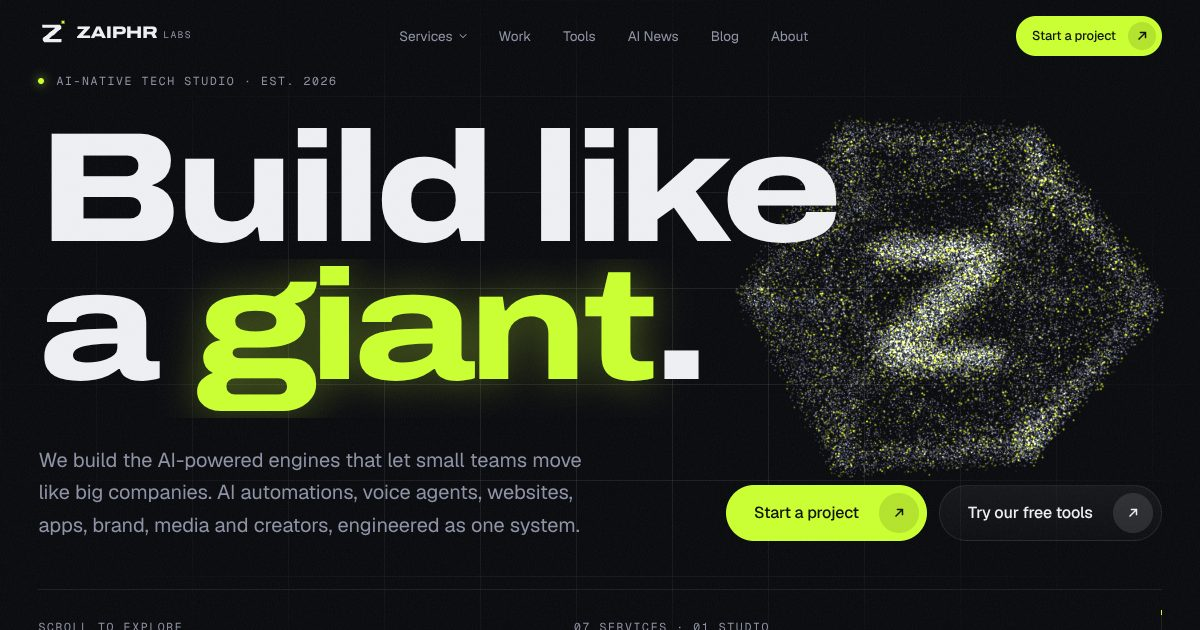
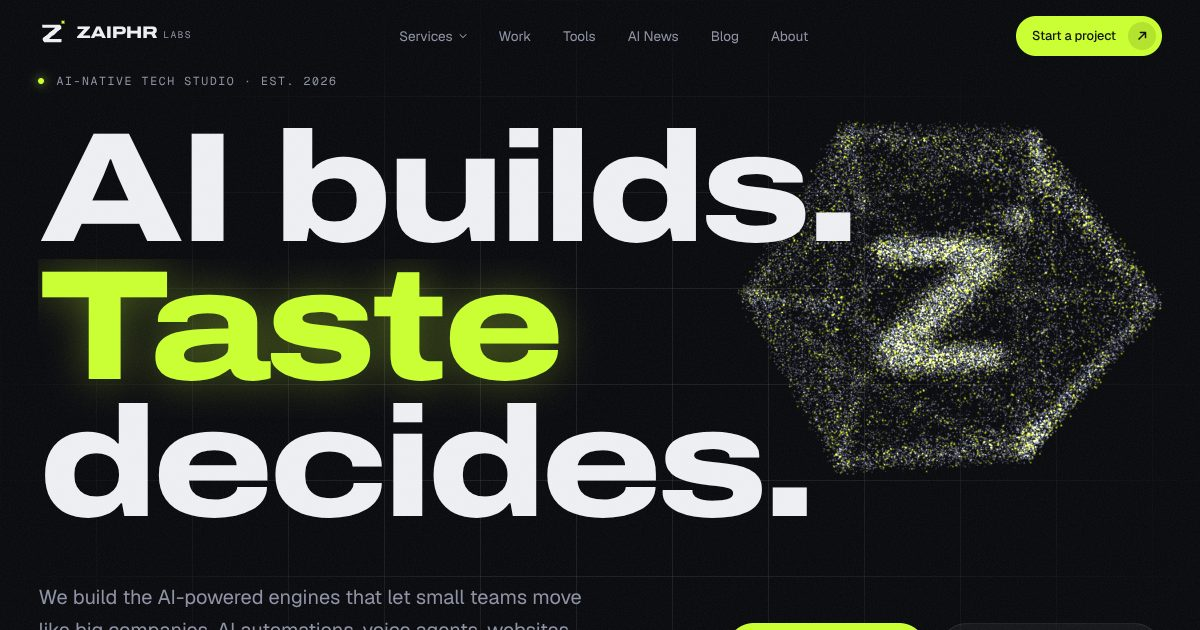
Home: new hero headline, "AI builds. Taste decides."
Ties the banner to the About page's Taste section. Link-preview images re-rendered.

Claude-Session: https://claude.ai/code/session_01Q21mXLWrfmy1micvPzq9W6

Changed region(s): [[0.0308, 0.181, 0.9867, 0.8746], [0.0308, 0.9349, 0.7708, 1.0], [0.8017, 0.7841, 0.9558, 0.8444]]

diff --git a/components/sections/home/Hero.tsx b/components/sections/home/Hero.tsx
@@ -15,10 +15,10 @@ export function Hero() {
 
         <h1 className="font-display-wide text-[length:var(--text-mega)]">
           <RevealText as="span" trigger="ready" className="block">
-            Build like
+            AI builds.
           </RevealText>
           <RevealText as="span" trigger="ready" delay={0.12} className="block">
-            a <span className="text-signature text-glow">giant</span>.
+            <span className="text-signature text-glow">Taste</span> decides.
           </RevealText>
         </h1>
 
